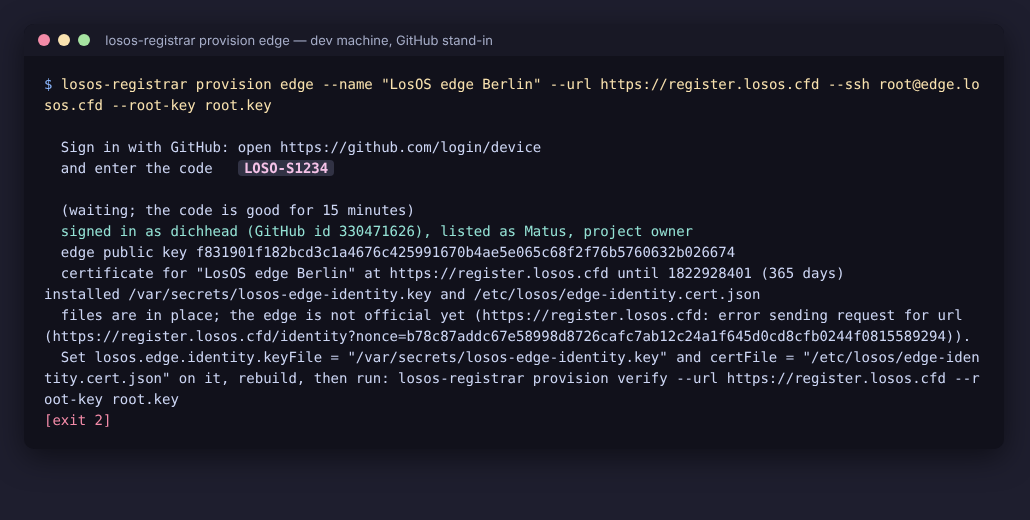
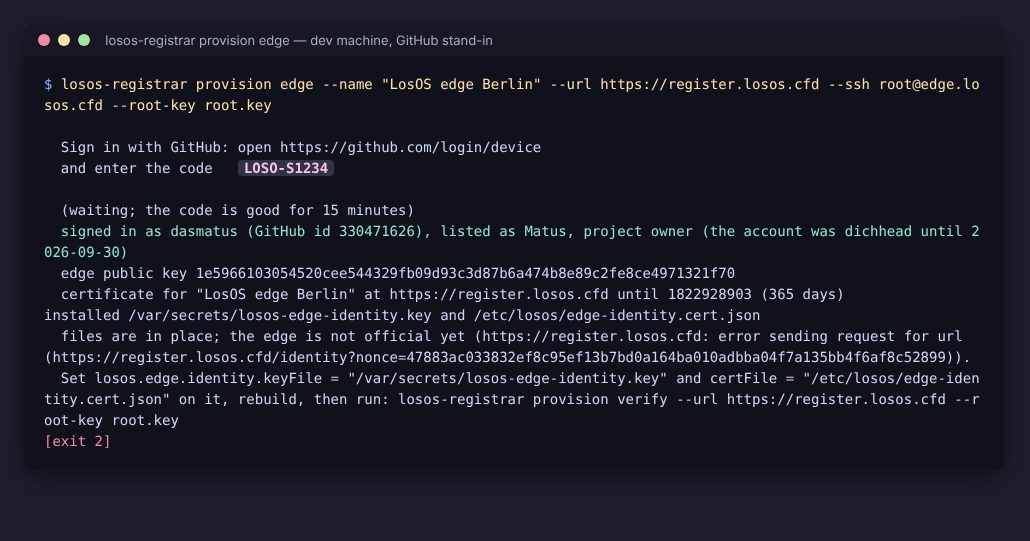
operators.json: the owner's current login, dasmatus
The id is what the tool compares; the login beside it is for reading, and
the account was renamed from dichhead on 2026-09-30. The renamed-login test
now uses the real old name.

diff --git a/backend-registrar/tests/provision.rs b/backend-registrar/tests/provision.rs
@@ -59,8 +59,9 @@ struct PollForm {
 
 fn user_of(token: &str) -> Option<(u64, &'static str)> {
     match token {
-        "gho_matus" => Some((MATUS_ID, "dichhead")),
-        "gho_renamed" => Some((MATUS_ID, "matus-renamed")),
+        "gho_matus" => Some((MATUS_ID, "dasmatus")),
+        // The login the same account had before 2026-09-30.
+        "gho_renamed" => Some((MATUS_ID, "dichhead")),
         "gho_stranger" => Some((42, "stranger")),
         _ => None,
     }
@@ -221,9 +222,9 @@ async fn the_device_flow_signs_a_listed_operator_in() {
     })
     .await;
     let session = sign_in(&base, None, "").await.expect("Matus is listed");
-    assert_eq!(session.user.login, "dichhead");
+    assert_eq!(session.user.login, "dasmatus");
     assert_eq!(session.user.id, MATUS_ID);
-    assert_eq!(session.operator.github_login, "dichhead");
+    assert_eq!(session.operator.github_login, "dasmatus");
     assert_eq!(session.token, "gho_matus");
     // Two pending answers, one slow_down, then the token: four polls.
     assert_eq!(fake.polls.load(Ordering::SeqCst), 4);
@@ -258,8 +259,8 @@ async fn a_renamed_login_still_passes_because_the_id_is_the_key() {
     })
     .await;
     let session = sign_in(&base, None, "").await.expect("same id, new login");
-    assert_eq!(session.user.login, "matus-renamed");
-    assert_eq!(session.operator.github_login, "dichhead");
+    assert_eq!(session.user.login, "dichhead");
+    assert_eq!(session.operator.github_login, "dasmatus");
 }
 
 #[tokio::test]

diff --git a/backend-registrar/src/provision.rs b/backend-registrar/src/provision.rs
@@ -966,7 +966,7 @@ mod tests {
     fn the_committed_list_parses_and_names_the_owner_by_id() {
         let list = Operators::committed().expect("operators.json");
         let matus = list.find(330_471_626).expect("Matus is listed");
-        assert_eq!(matus.github_login, "dichhead");
+        assert_eq!(matus.github_login, "dasmatus");
         assert!(list.find(1).is_none());
     }
 
